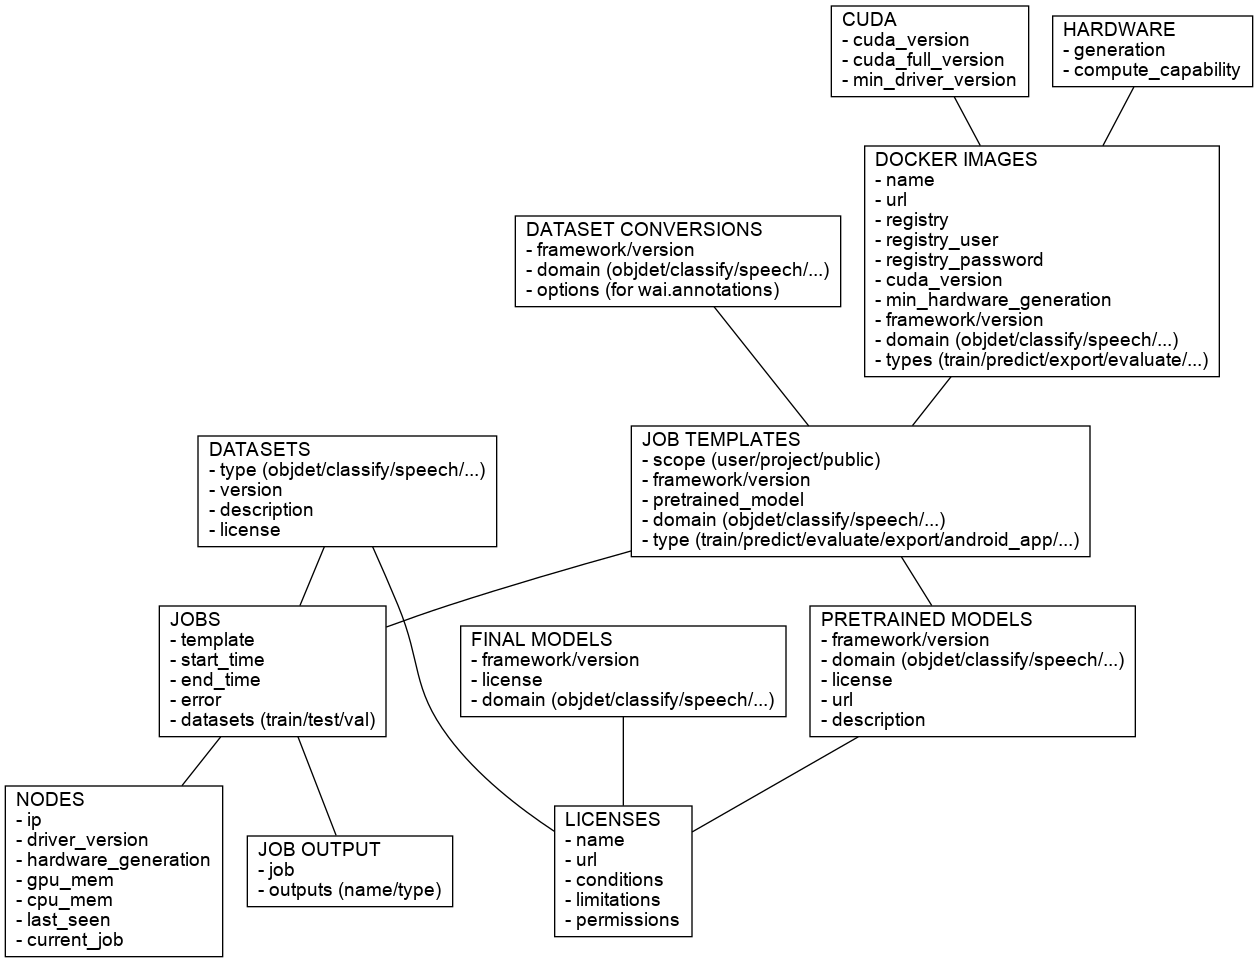
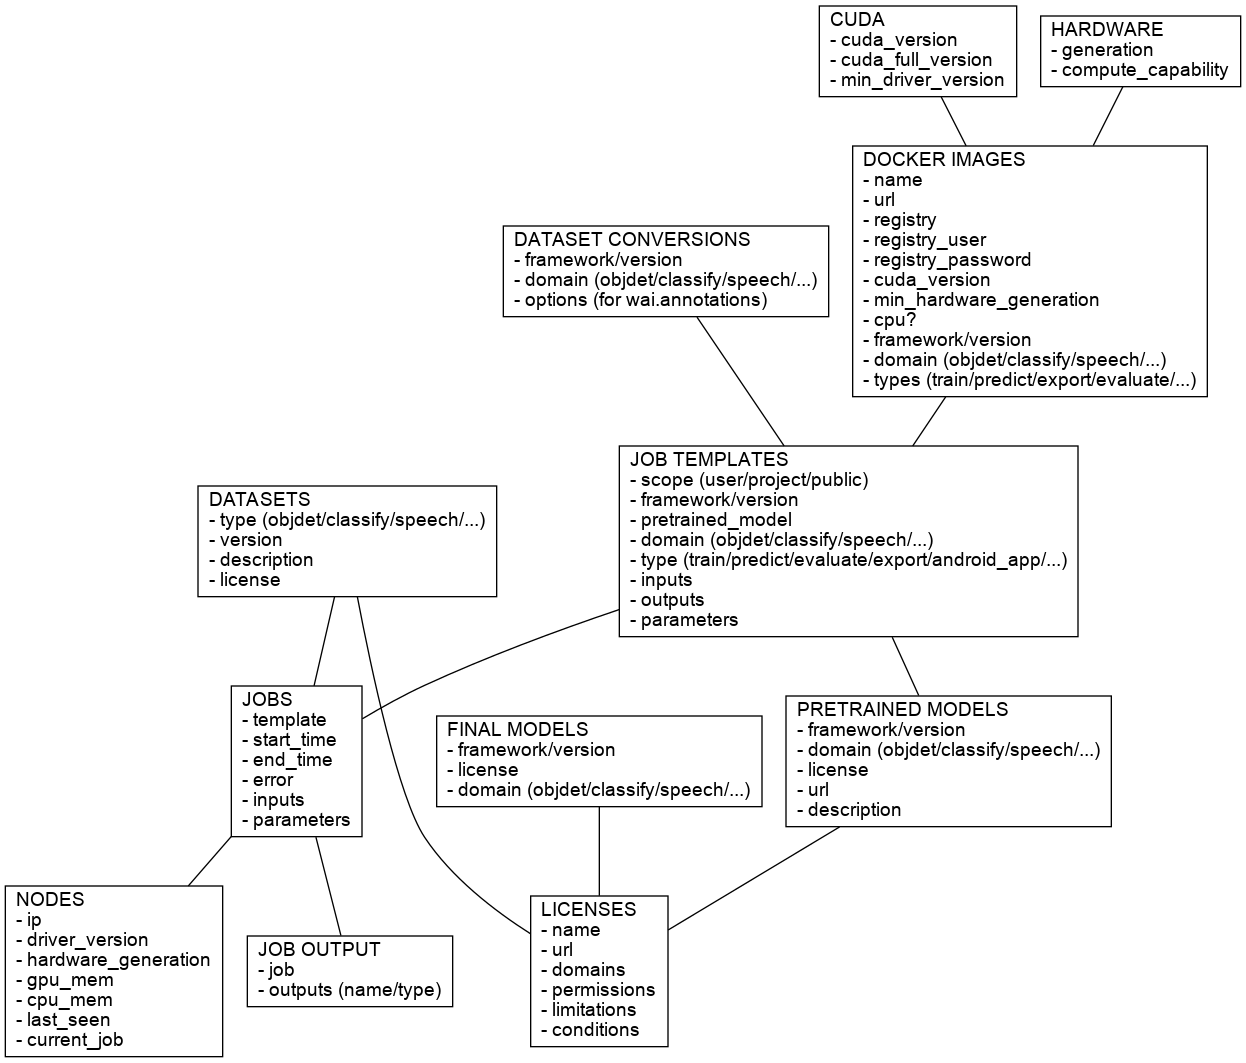
Deployed ba1f3d9 with MkDocs version: 1.0.4

diff --git a/docker_images/index.html b/docker_images/index.html
@@ -181,6 +181,7 @@ for exporting them and generating other output.</p>
 <li>registry_password (dito)</li>
 <li>cuda_version (the required cuda version to run this image)</li>
 <li>min_hardware (Pascal=1080Ti, Turing=2080Ti)</li>
+<li>cpu (bool)</li>
 <li>framework_name</li>
 <li>framework_version</li>
 <li>domain (objdet/classify/speech/...)</li>
@@ -197,6 +198,7 @@ for exporting them and generating other output.</p>
 <li>registry_password</li>
 <li>cuda_version</li>
 <li>min_hardware</li>
+<li>cpu</li>
 <li>framework_name</li>
 <li>framework_version</li>
 <li>domain</li>
@@ -212,6 +214,7 @@ for exporting them and generating other output.</p>
 <li>registry_password</li>
 <li>cuda_version</li>
 <li>min_hardware</li>
+<li>cpu</li>
 <li>framework_name</li>
 <li>framework_version</li>
 <li>domain</li>

diff --git a/jobs/index.html b/jobs/index.html
@@ -204,7 +204,7 @@ If a worker node matches (driver version, cpu/gpu memory), it can pull the job.<
 <li>dataset (test)</li>
 </ul>
 <h2 id="export">Export</h2>
-<p>An export job as the additional fields:</p>
+<p>An export job has the additional fields:</p>
 <ul>
 <li>final_model</li>
 </ul>

diff --git a/index.html b/index.html
@@ -204,5 +204,5 @@ at any given time as the project evolves.</p>
 
 <!--
 MkDocs version : 1.0.4
-Build Date UTC : 2020-07-19 21:03:25
+Build Date UTC : 2020-07-22 00:57:36
 -->

diff --git a/licenses/index.html b/licenses/index.html
@@ -205,5 +205,5 @@ and then extracts:</p>
 
 <!--
 MkDocs version : 1.0.4
-Build Date UTC : 2020-07-19 21:03:25
+Build Date UTC : 2020-07-22 00:57:37
 -->
